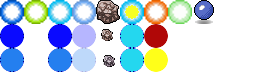
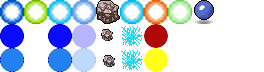
MOD New graphics for ligthning bolt

Changed region(s): [[0.4545, 0.3333, 0.5455, 1.0], [0.4545, 0.0556, 0.5455, 0.2778]]

diff --git a/src/BoltEntity.cpp b/src/BoltEntity.cpp
@@ -91,7 +91,8 @@ void BoltEntity::setCritical(bool critical)
 void BoltEntity::animate(float delay)
 {
   if (boltType != ShotTypeBomb)
-    particleGenerator.GenerateParticles(frame, IMAGE_BOLT, x, y, BOLT_WIDTH, BOLT_HEIGHT, Vector2D(0.0f, 0.0f), 10, renderScale);
+    particleGenerator.GenerateParticles(frame, IMAGE_BOLT, x, y, BOLT_WIDTH, BOLT_HEIGHT,
+                        boltType == ShotTypeLightning ? Vector2D(20.0f) : Vector2D(0.0f, 0.0f), 10, renderScale);
 
   z = y + height;
 
